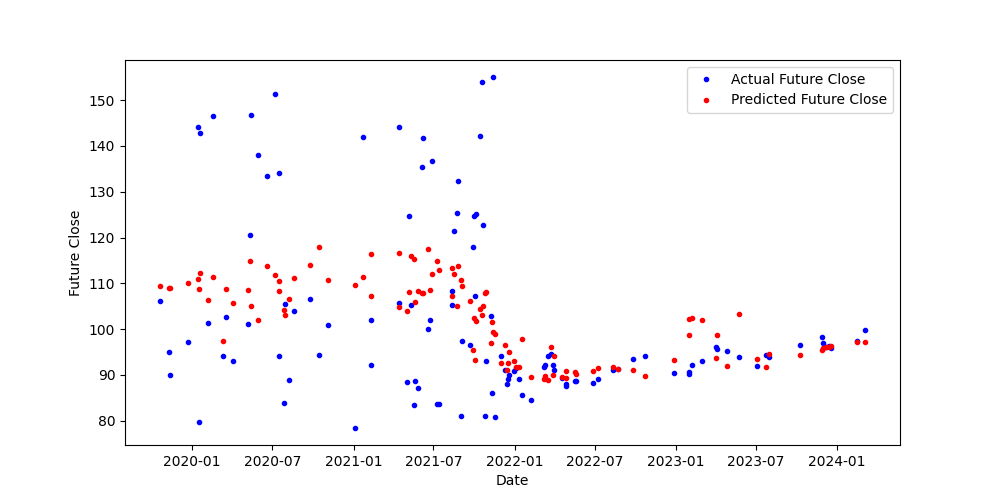
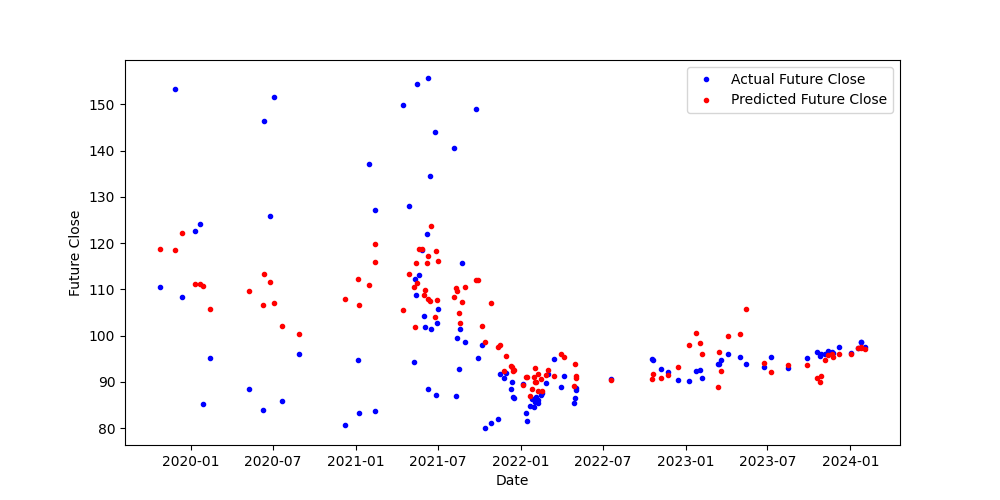
Implement code to forecast future closing prices

diff --git a/KNN_analysis/training_model.py b/KNN_analysis/training_model.py
@@ -5,7 +5,10 @@ import pandas as pd
 from sklearn.metrics import confusion_matrix, precision_score, recall_score, f1_score, ConfusionMatrixDisplay, \
     classification_report, root_mean_squared_error
 from sklearn.model_selection import train_test_split
+from sklearn.preprocessing import StandardScaler
+
 import data_fetching
+from KNN_analysis import process_forecast_data
 from KNN_analysis.knn_classifier import KNN_classifier
 from KNN_analysis.knn_regression import KNN_regression
 
@@ -53,12 +56,12 @@ def main():
 
     y_values = balanced_Data['future_close'].values
 
-    X_train, X_valid, y_train, y_valid = train_test_split(X, y_values, test_size=0.2)
+    X_train, X_valid, y_train, y_valid = train_test_split(X, y_values, test_size=0.2, shuffle=True)
 
     X_training = X_train.reset_index(drop=True)
     X_validation = X_valid.reset_index(drop=True)
 
-    y_pred = KNN_regression(X_training, X_validation, y_train, y_valid)
+    y_pred, knn_regressor = KNN_regression(X_training, X_validation, y_train, y_valid)
 
     max = y_valid.max()
     min = y_valid.min()
@@ -68,12 +71,53 @@ def main():
     print(f"The normalized root mean square error is: {rmse}")
     plt.figure(figsize=(10,5))
 
-    plt.plot(X_valid.index, y_valid, 'b.', label='Actual Future Close')
-    plt.plot(X_valid.index, y_pred, 'r.', label='Predicted Future Close')
+    df_plot = pd.DataFrame({
+        'actual': y_valid,
+        'predicted': y_pred
+    }, index=X_valid.index)
+
+    # Sort by index (e.g., date)
+    df_plot = df_plot.sort_index()
+
+    plt.plot(df_plot.index, df_plot['actual'], 'b.', label='Actual')
+    plt.plot(df_plot.index, df_plot['predicted'], 'r.', label='Predicted')
     plt.xlabel('Date')
+
     plt.ylabel('Future Close')
     plt.legend(loc='best')
-    plt.savefig("plots/knn_validation.png")
+    plt.savefig("plots/knn_validation_test.png")
+
+    forecast_data = process_forcast_data.main()
+
+    forecast_data_no_date = forecast_data.reset_index(drop=True)
+    # print(forecast_data)
+    ss = StandardScaler()
+
+    forecast_data_no_date = ss.fit_transform(forecast_data_no_date)
+    future_forcast = knn_regressor.predict(forecast_data_no_date)
+
+    print(future_forcast)
+
+    # Use regressor to forecast future data from 2024-04-28 - 2025-03-26, the prediction at 2025-03-26 is the predicted
+    # closing price by the end of 2025
+
+    plt.figure(figsize=(10,5))
+
+    df_plot = pd.DataFrame({
+        'predicted': future_forcast
+    }, index=forecast_data.index)
+
+    # Sort by index (e.g., date)
+    df_plot = df_plot.sort_index()
+
+    plt.plot(df_plot.index, df_plot['predicted'], 'r.', label='Predicted')
+    plt.xlabel('Date')
+
+    plt.ylabel('Future Close')
+    plt.legend(loc='best')
+    plt.savefig("plots/knn_prediction.png")
+
+
 
 if __name__ == '__main__':
     sys.exit(main())

diff --git a/KNN_analysis/process_forecast_data.py b/KNN_analysis/process_forecast_data.py
@@ -1,0 +1,45 @@
+import pandas as pd
+from datetime import datetime as dt, timedelta
+
+
+def process_data(data):
+    data = data.copy()
+
+    # Use the first row as column names
+    data.columns = data.iloc[0]
+    # Drop that row
+    data = data.iloc[1:].reset_index(drop=True)
+
+    # Rename the 'Price' column to 'Date'
+    if 'Price' in data.columns:
+        data.rename(columns={'Price': 'Date'}, inplace=True)
+
+    # Convert Date to datetime
+    data['Date'] = pd.to_datetime(data['Date'], errors='coerce', format='%Y-%m-%d')
+
+    # Set the Date column as the DataFrame index
+    data.set_index('Date', inplace=True)
+
+    # Convert Close to numeric
+    if 'Close' in data.columns:
+        data['Close'] = pd.to_numeric(data['Close'], errors='coerce')
+    else:
+        raise KeyError("'Close' column not found in the dataset.")
+
+    # Calculate daily return
+    data['daily_return'] = data['Close'].pct_change(1)
+
+    data.dropna(inplace=True)
+
+    return data
+
+
+def main():
+    # Adjust header=None, since we have custom logic
+    data = pd.read_csv('future_forecast.csv', header=None)
+    processed_data = process_data(data)
+    return processed_data
+
+
+if __name__ == '__main__':
+    main()

diff --git a/KNN_analysis/knn_regression.py b/KNN_analysis/knn_regression.py
@@ -31,6 +31,6 @@ def KNN_regression(X_train, X_valid, y_train, y_valid):
     model = KNeighborsRegressor(**best_params).fit(X_train, y_train)
     y_pred = model.predict(X_valid)
 
-    return y_pred
+    return y_pred, model
 
 
